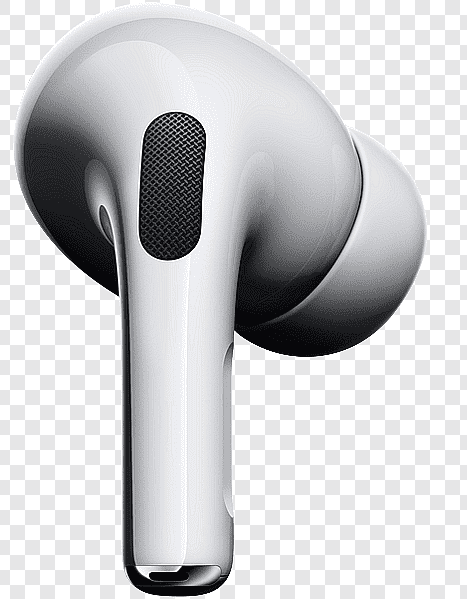
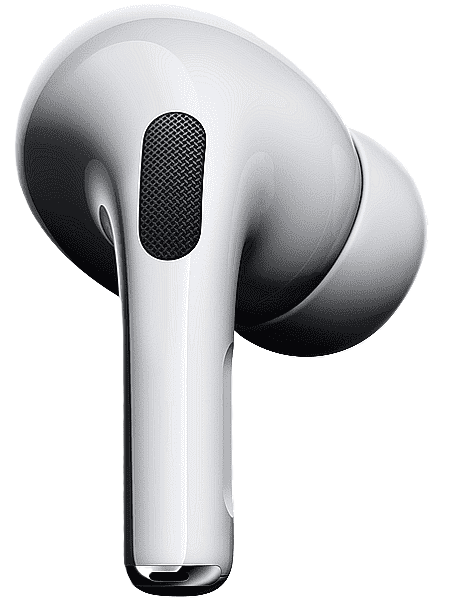
product display

Changed region(s): [[0.3597, 0.0, 1.0, 1.0], [0.0, 0.0, 0.3597, 1.0], [0.2998, 0.9316, 0.3298, 0.9616]]

diff --git a/components/Product.jsx b/components/Product.jsx
@@ -4,9 +4,9 @@ export default function Product({ name, price, description, picture }) {
   return (
     <div>
       <div className='py-5'>
-        <div className='w-64'>
+        <div className=' max-w-96'>
           <div className='bg-blue-100 p-5 rounded-lg'>
-            <img src={picture} alt='Iphone' />
+            <img src={picture} alt='Iphone' className='max-h-56' />
           </div>
           <div className='font-bold text-lg my-2'>
             <h3>{name}</h3>
